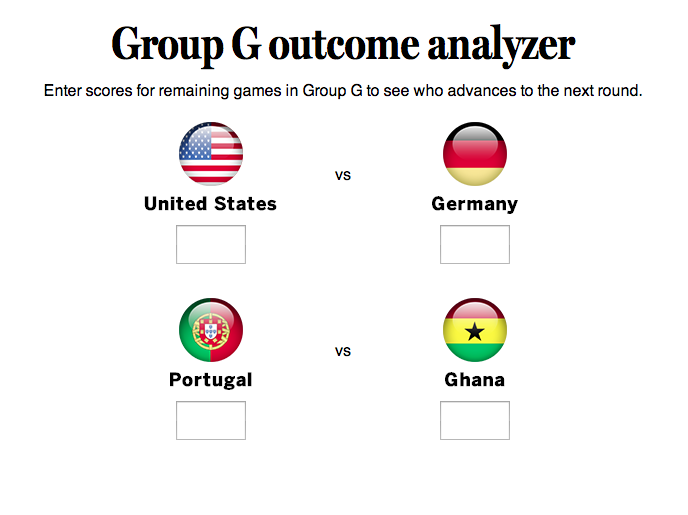
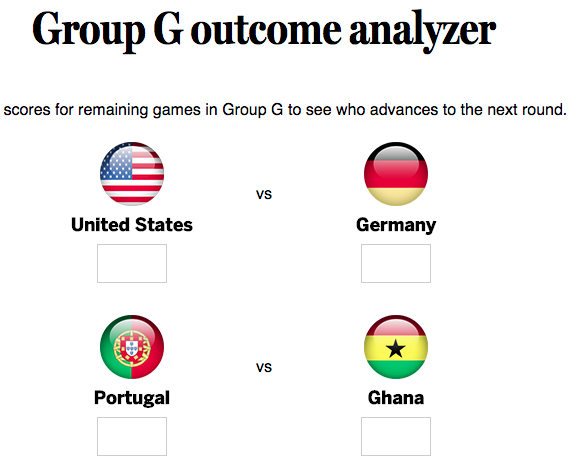
optimized some things for mobile

diff --git a/js/data.js b/js/data.js
@@ -2,137 +2,130 @@ data =
 [{
 	"organization": "Boston Globe",
 	"class": "bg",
+	"title": "MFA Masterpieces on Loan",
+	"link":"http://www.bostonglobe.com/2014/08/02/mfa-masterpieces-loan/nKWiWAouJFiHC8GHOG39UI/story.html",
+	"image": "images/work_samples/globe/loanart.png"
+},{
+	"organization": "Boston Globe",
+	"class": "bg",
+	"title": "NFL Pick 'Em",
+	"link":"http://www.bostonglobe.com/2014/09/02/globe-nfl-pick/lrrDKN5JOcILOf4NAc95kN/story.html",
+	"image": "images/work_samples/globe/pickem.png"
+},{
+	"organization": "Boston Globe",
+	"class": "bg",
 	"title": "Ten Percenters",
 	"link":"http://www.bostonglobe.com/metro/2014/07/19/just-luck-some-lottery-winners-cash-hundreds-tickets/u9slYhTdzofrnTGMmGF0jN/story.html",
 	"image": "images/work_samples/globe/brudnicks.png"
-},
-{
+},{
 	"organization": "Boston Globe",
 	"class": "bg",
 	"title": "Mass. by Descendance",
 	"link":"http://www.bostonglobe.com/2014/07/14/what-team-did-massachusetts-root-for-during-world-cup-final/EypFKrpWFpLV4l7kvnvu8O/story.html",
 	"image": "images/work_samples/globe/worldcup.png"
-},
-{
+},{
 	"organization": "Boston Globe",
 	"class": "bg",
 	"title": "FIFA 2014: Will the U.S. advance if...",
 	"link":"http://www.bostonglobe.com/2014/06/23/soccer/pf21frmdANwSDtGvBVhWVK/story.html",
 	"image": "images/work_samples/globe/wc_calculator.png"
-},
-{
+},{
 	"organization": "Boston Globe",
 	"class": "bg",
 	"title": "Rising Tuition Costs in Boston Area",
 	"link":"http://www.bostonglobe.com/2014/06/22/compare-prices-colleges-and-universities/383o9UzIKNeHHm5yODNuQO/story.html",
 	"image": "images/work_samples/globe/colleges.png"
-},
-{
+},{
 	"organization": "Boston Globe",
 	"class": "bg",
 	"title": "Boston Mayoral Race",
 	"link":"http://www.bostonglobe.com/2014/06/05/poll-governor-election-candidates/rnLiEf8tFWjjaPFxXRvwRK/story.html",
 	"image": "images/work_samples/globe/favorability.png"
-},
-{
+},{
 	"organization": "New York Daily News",
 	"class": "nydn",
 	"title": "GEN Hackathon 2014",
 	"link":"https://github.com/kcecireyes/NewsQs",
 	"image": "images/work_samples/nydn/newsqs.png"
-},
-{
+},{
 	"organization": "New York Daily News",
 	"class": "nydn",
 	"title": "What Does Autocomplete Say About...",
 	"link":"http://www.nydailynews.com/new-york/map-reveals-google-autocomplete-new-york-city-article-1.1744115",
 	"image": "images/work_samples/nydn/google.png"
-},
-{
+},{
 	"organization": "New York Daily News",
 	"class": "nydn",
 	"title": "Sandy Anniversary",
 	"link":"http://www.nydailynews.com/new-york/hurricane-sandy/sandy-flood-zone-interactive-graphic-article-1.1499707",
 	"image": "images/work_samples/nydn/sandy.png"
-},
-{
+},{
 	"organization": "Columbia Spectator",
 	"class": "spec",
 	"title": "Faculty House Negotiations Stalled",
 	"link":"http://columbiaspectator.com/2013/01/16/students-faculty-house-employees-continue-negotiate-contracts-labor-administrators",
 	"image": "images/work_samples/spec/sws.jpg"
-},
-{
+},{
 	"organization": "Columbia Spectator",
 	"class": "spec",
 	"title": "TC Administrators Pocket $315,500 from Budget",
 	"link":"http://columbiaspectator.com/news/2013/05/10/teachers-college-faculty-vote-not-support-proposed-2013-14-budget",
 	"image": "images/work_samples/spec/tc.jpg"
-},
-{
+},{
 	"organization": "Columbia Spectator",
 	"class": "spec",
 	"title": "Columbia Nutella Craze",
 	"link":"http://columbiaspectator.com/2013/03/05/nutella-ferris-booth-costs-dining-5000-week-part-due-dining-hall-thievery",
 	"image": "images/work_samples/spec/nutella.jpg"
-},
-{
+},{
 	"organization": "Columbia Spectator",
 	"class": "spec",
 	"title": "Police Sting at Bar 1020",
 	"link":"http://columbiaspectator.com/2013/02/22/1020-fined-underage-drinking-after-police-sting-could-lose-liquor-license",
 	"image": "images/work_samples/spec/1020.jpg"
-},
-{
+},{
 	"organization": "Projects",
 	"class":"projects",
 	"title": "Jit: A Language for Journalists",
 	"link":"https://github.com/kcecireyes/JIT",
 	"image": "images/work_samples/drawings/jit.png"
-},
-{
+},{
 	"organization": "Projects",
 	"class":"projects",
 	"title": "Get With The Times - HackNY 2012",
 	"link":"https://github.com/alexandraorth/GetWithTheTimes",
 	"image": "images/work_samples/drawings/gwtt.png"
-},
-{
+},{
 	"organization": "Drawings",
 	"class":"drawings",
 	"title": "Study of Legs",
 	"link":"images/work_samples/drawings/1.jpg",
 	"image": "images/work_samples/drawings/1.jpg"
-},
-{
+},{
 	"organization": "Drawings",
 	"class":"drawings",
 	"title": "Study 2",
 	"link":"images/work_samples/drawings/3.jpg",
 	"image": "images/work_samples/drawings/3.jpg"
-},
-{
+},{
 	"organization": "Drawings",
 	"class":"drawings",
 	"title": "Portrait of Sleeping Girl",
 	"link":"images/work_samples/drawings/5.jpg",
 	"image": "images/work_samples/drawings/5.jpg"
-},
-{
+},{
 	"organization": "Drawings",
 	"class":"drawings",
 	"title": "Still life",
 	"link":"images/work_samples/drawings/6.jpg",
 	"image": "images/work_samples/drawings/6.jpg"
-},
-{
+},{
 	"organization": "Drawings",
 	"class":"drawings",
 	"title": "Study of Hand",
 	"link":"images/work_samples/drawings/7.jpg",
 	"image": "images/work_samples/drawings/7.jpg"
-},
-{
+},{
 	"organization": "Drawings",
 	"class":"drawings",
 	"title": "Paper Lillies",

diff --git a/work.css b/work.css
@@ -66,4 +66,10 @@ span.text span {
 		margin: 1em 0;
 		width: 85%;
 		height: 40%;
+		-webkit-filter: grayscale(0);
+		-moz-filter: grayscale(0);
+		filter: grayscale(0);
 	}
+	div.image, div.image span.text{
+		opacity: 1.0;
+}
